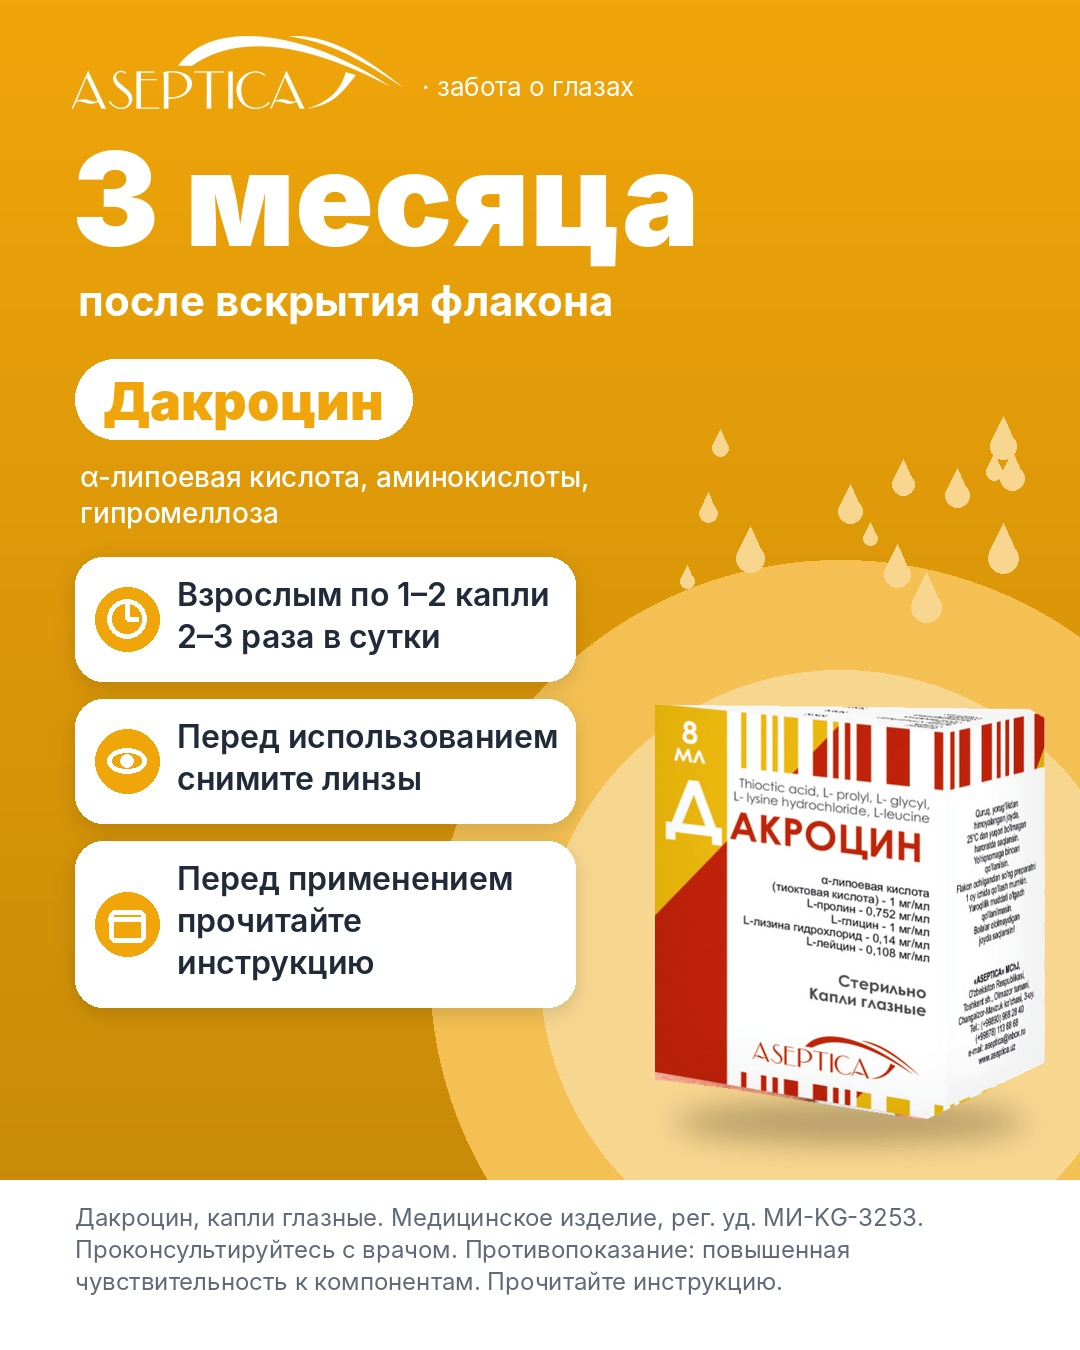
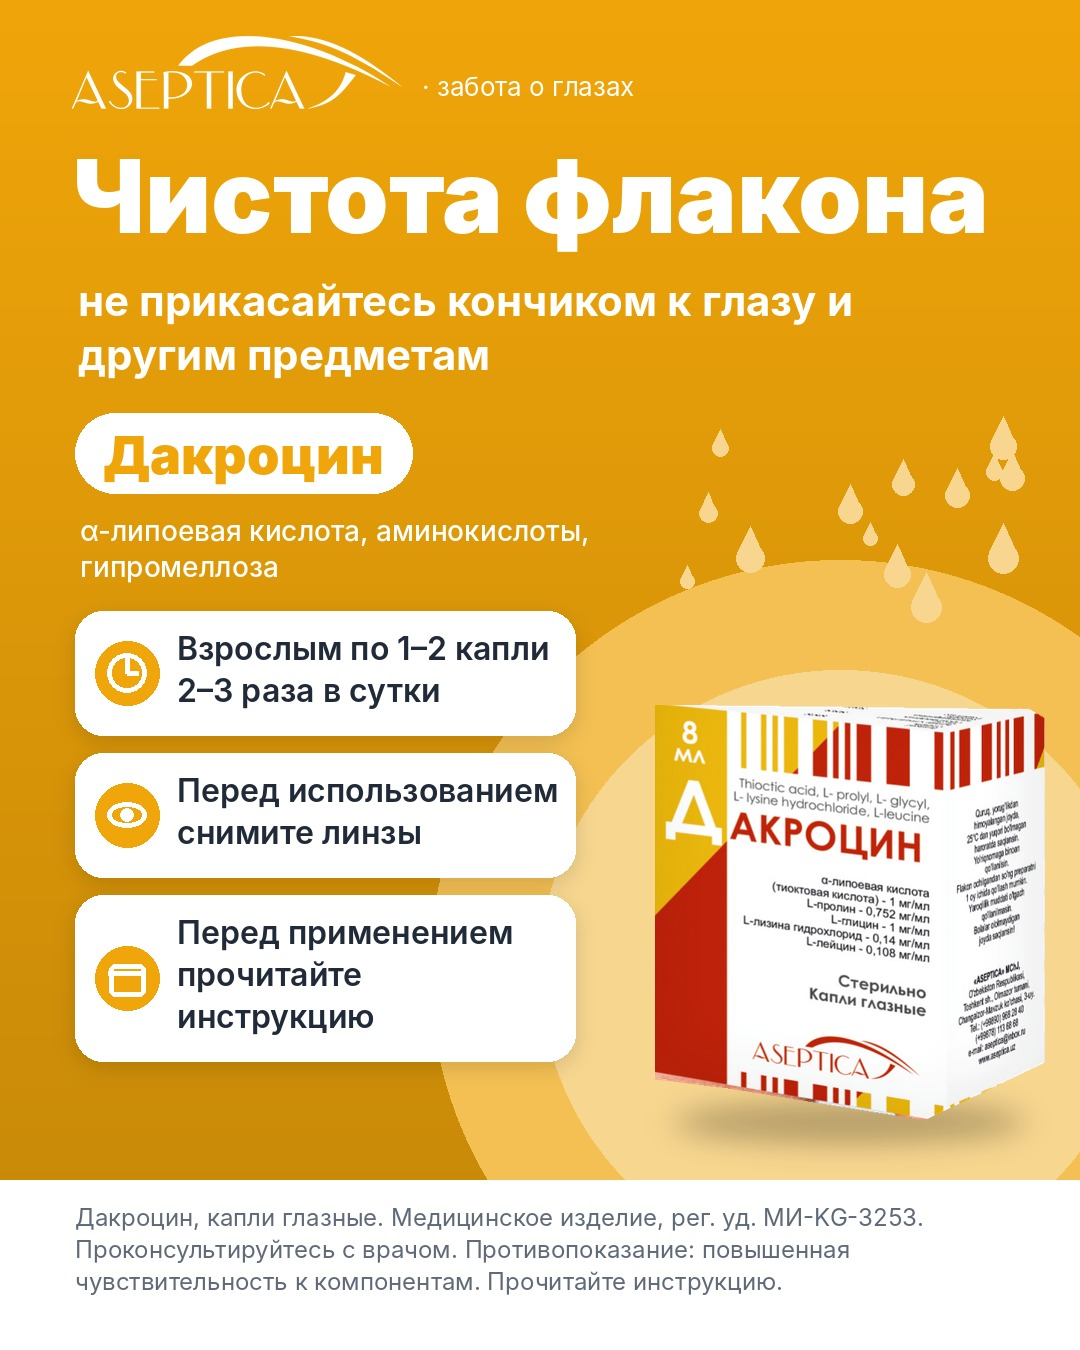
No 'after opening' in reels/posts; Forte & Dakrocin images redrawn; Vitolin reel with hygiene line
Claude-Session: https://claude.ai/code/session_019hG4wvfQaztJNc6HVQ1fh8

Changed region(s): [[0.0611, 0.0933, 0.9167, 0.8089]]

diff --git a/agent/reels/make_reel.py b/agent/reels/make_reel.py
@@ -69,7 +69,7 @@ else:
           "Раскрой совет простыми словами, без новых медицинских фактов, не связывай с каплями.")
 system=("Ты пишешь сценарии коротких вертикальных видео (Reels) для компании Aseptica (глазные капли, медицинские изделия), Кыргызстан. Язык: русский.\n"
         "Стиль: "+R["style"]+"\nСтрого запрещено: "+"; ".join(R["common_forbidden"])+".\n"
-        'Ответ — JSON: {"voice": текст для озвучки 30–40 слов (ролик до 25 секунд), спокойно и понятно, без хэштегов и эмодзи; дозировку и сроки называй точно как в фактах (например «после вскрытия флакона — 1 месяц»), не добавляй своих выводов; продукт называй по названию, не словом «продукт»; '
+        'Ответ — JSON: {"voice": текст для озвучки 30–40 слов (ролик до 25 секунд), спокойно и понятно, без хэштегов и эмодзи; дозировку и сроки называй точно как в фактах (срок после вскрытия флакона не упоминай), не добавляй своих выводов; продукт называй по названию, не словом «продукт»; '
         '"lines": [3 коротких надписи на экран, каждая не длиннее 6 слов; надписи — это три разные ключевые мысли (польза, когда пригодится, как применять), без приветствий и без повторения фразы из начала озвучки]; Не начинай со слов «Знакомьтесь», «Представляем», «Встречайте» и не используй их вообще — начни сразу с пользы или ситуации из жизни;  "caption": подпись к посту 250–450 знаков, можно 1–2 эмодзи, без хэштегов и юр. строки}.'
         +(' Также \"scenes\": 2 поисковых запроса НА АНГЛИЙСКОМ (2–4 слова) для стокового видео: 1) ОДИН взрослый человек в спокойной жизненной ситуации по теме (дом, офис, зима у батареи, работа за ноутбуком, улица), например \"woman sitting near radiator\", \"man working laptop office\"; 2) спокойный кадр БЕЗ людей, например \"laptop desk\", \"snow window\", \"cup tea window\". Люди спокойные и довольные (не грустные, не уставшие, без головной боли). Отопление — батареи и обогреватели (radiator, heater), без каминов и огня. Без детей, врачей, больниц, лекарств, уколов и без крупного плана глаза.' if STYLE=="stock" else ''))
 BAD=re.compile(r"знакомьт|применяйте|встречайте|нейропротек|лечит|лечени|излеч|устраня|синдром|глауком|диабет|катаракт|ретинопат|кератокону|дет(и|ей|ям|ск)|подрост|беремен|гарант|лучш|№ ?1|скидк|цен[аы]",re.I)
